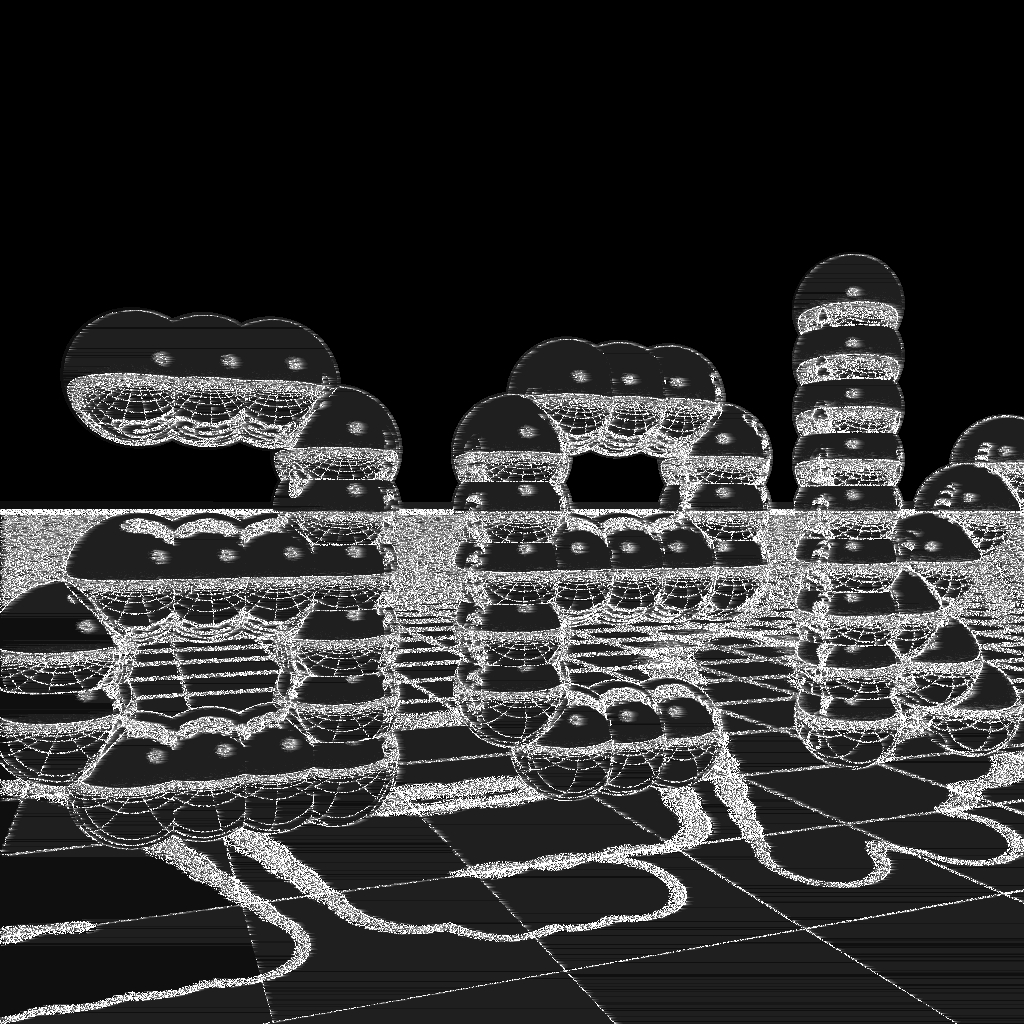
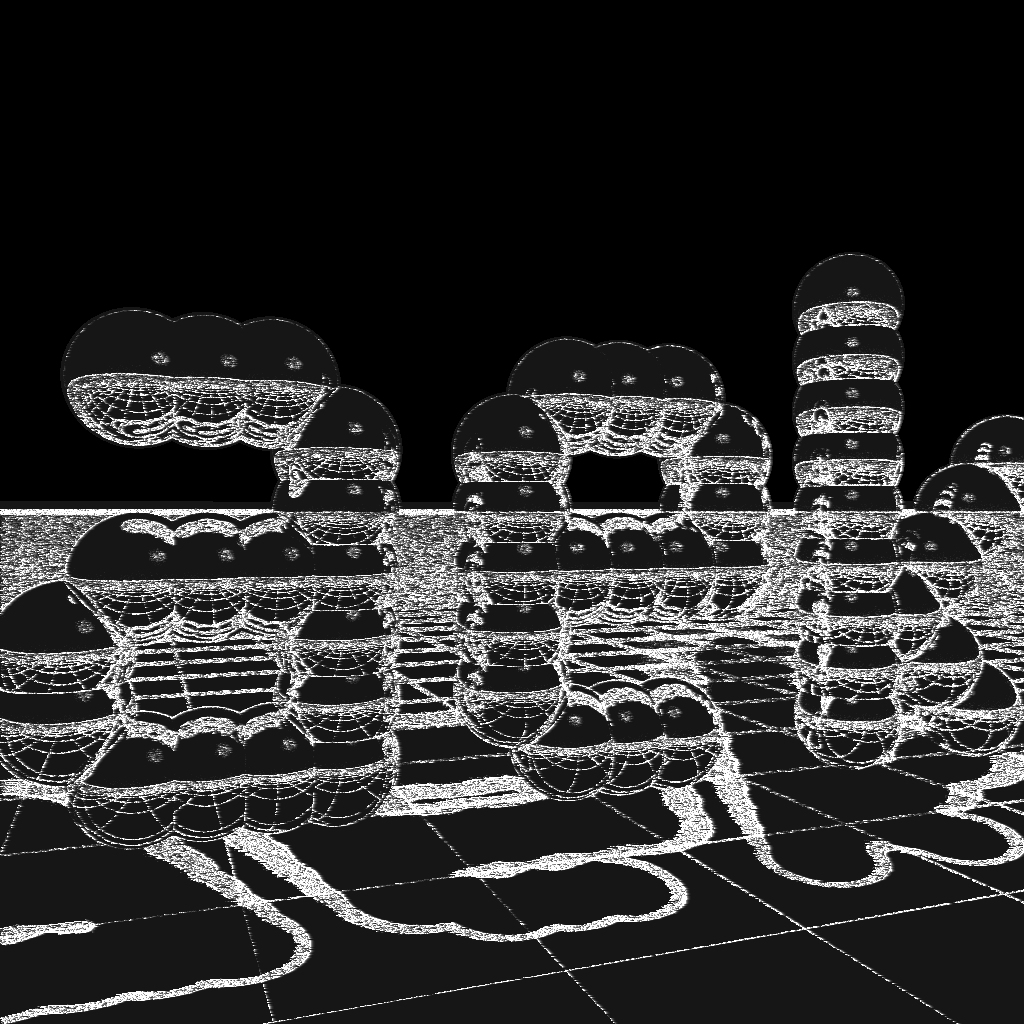
Improved adaptive sample decay code.

diff --git a/stackgvm/source/junk/aek_3b.cpp b/stackgvm/source/junk/aek_3b.cpp
@@ -504,7 +504,7 @@ void render(std::FILE* out) {
 
 
     for (int y = IMAGE_SIZE; y--;) {
-        int min_adaptive_ray_count = (SAMPLE_BUFFER_SIZE-1);
+        int min_adaptive_ray_count = SAMPLE_BUFFER_SIZE;
         for (int x = IMAGE_SIZE; x--;) {
             // Use a vector for the pixel. The values here are in the range 0.0 - 255.0 rather than the 0.0 - 1.0
             Vec3 pixel(0.0f, 0.0f, 0.0f);
@@ -531,9 +531,10 @@ void render(std::FILE* out) {
             if (material != M_SKY) {
                 Vec3 samples[SAMPLE_BUFFER_SIZE];
                 SampleFunction samplefn = (material == M_MIRROR ? sample_first_bounce : sample_no_bounce);
-                int ray_count;
-                // Cast MAX_RAYS rays per pixel for sampling
-                for (ray_count = 0; ray_count < MAX_RAYS; ++ray_count) {
+                int ray_count = 0;
+
+                // Cast up to MAX_RAYS rays per pixel for sampling
+                for (; ray_count < MAX_RAYS; ++ray_count) {
 
                     // Random delta to be added for depth of field effects
                     Vec3 delta = Vec3::add(
@@ -541,7 +542,7 @@ void render(std::FILE* out) {
                         Vec3::scale(camera_right, (frand() - 0.5f) * 99.0f)
                     );
 
-                    // Buffer the most recent 4 samoles
+                    // Buffer the most recent sample
                     Vec3& sample = samples[ray_count & (SAMPLE_BUFFER_SIZE-1)];
 
                     sample = samplefn(
@@ -582,10 +583,9 @@ void render(std::FILE* out) {
                     // average. We then sum those up and just check it's lower than some arbitrary threshold.
 
                     if (
-                        ray_count > min_adaptive_ray_count &&
+                        ray_count >= min_adaptive_ray_count &&
                         (ray_count & (SAMPLE_BUFFER_SIZE-1)) == (SAMPLE_BUFFER_SIZE-1)
                     ) {
-
                         Vec3 average = Vec3::scale(
                             pixel,
                             1.0f/(ray_count + 1)
@@ -605,25 +605,18 @@ void render(std::FILE* out) {
                                 pixel,
                                 (float32)MAX_RAYS / (float32)(ray_count + 1)
                             );
-
-
-                            min_adaptive_ray_count = ray_count;
-
                             break;
                         }
                     }
                 }
 
-                min_adaptive_ray_count *= 0.75f;
-                if (min_adaptive_ray_count < (SAMPLE_BUFFER_SIZE-1)) {
-                    min_adaptive_ray_count = (SAMPLE_BUFFER_SIZE-1);
-                } else if (min_adaptive_ray_count > MAX_RAYS>>1) {
-                    min_adaptive_ray_count = MAX_RAYS>>1;
+                min_adaptive_ray_count = ray_count >> 1;
+                if (min_adaptive_ray_count < SAMPLE_BUFFER_SIZE) {
+                    min_adaptive_ray_count = SAMPLE_BUFFER_SIZE;
                 }
-
                 pixel = Vec3::scale(pixel, SAMPLE_SCALE);
-                if (ray_count >= MAX_RAYS) {
-                    ray_count = MAX_RAYS-1;
+                if (ray_count > 255) {
+                    ray_count = 255;
                 }
                 std::fprintf(dbg, "%c", ray_count);
 
